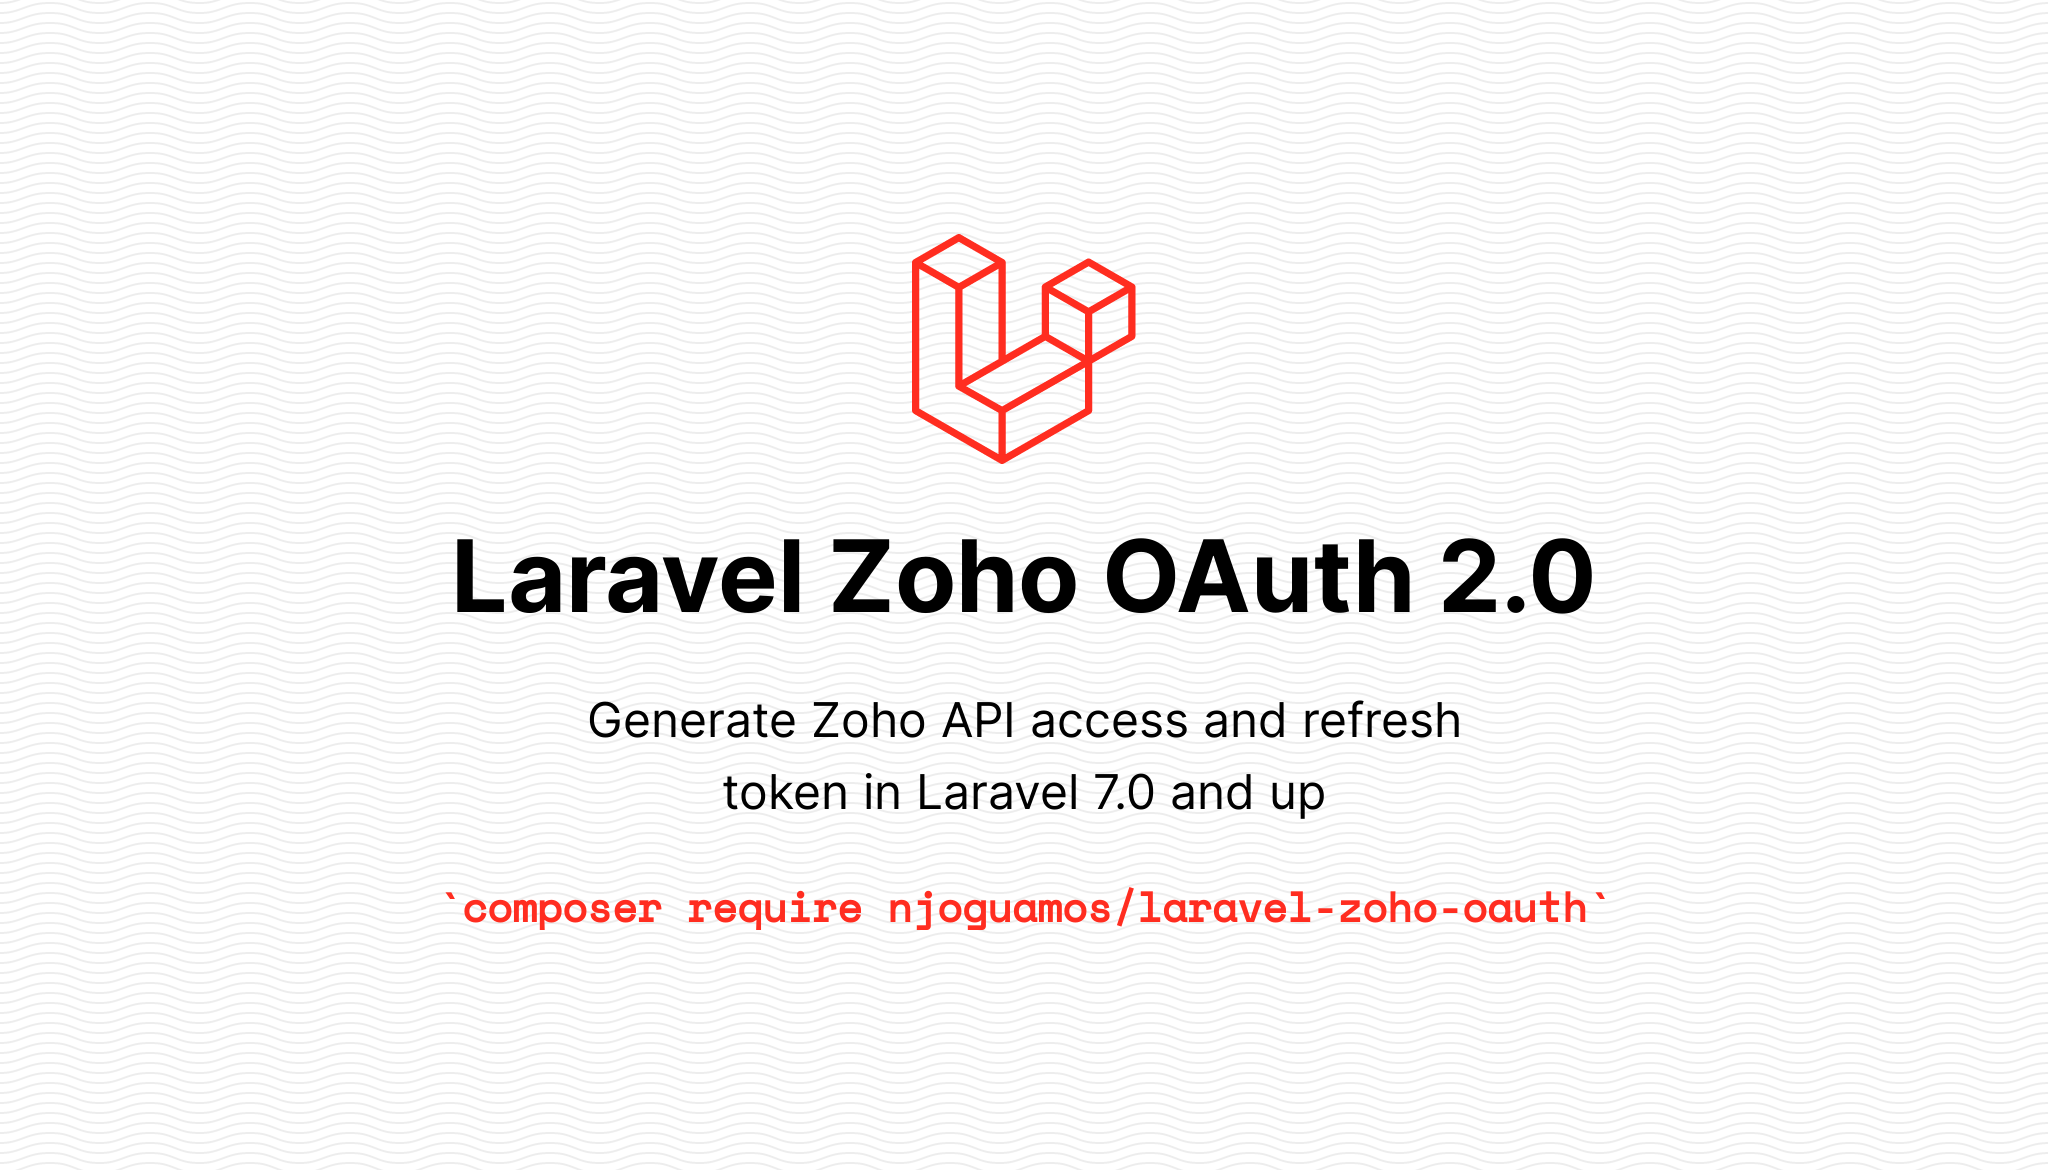
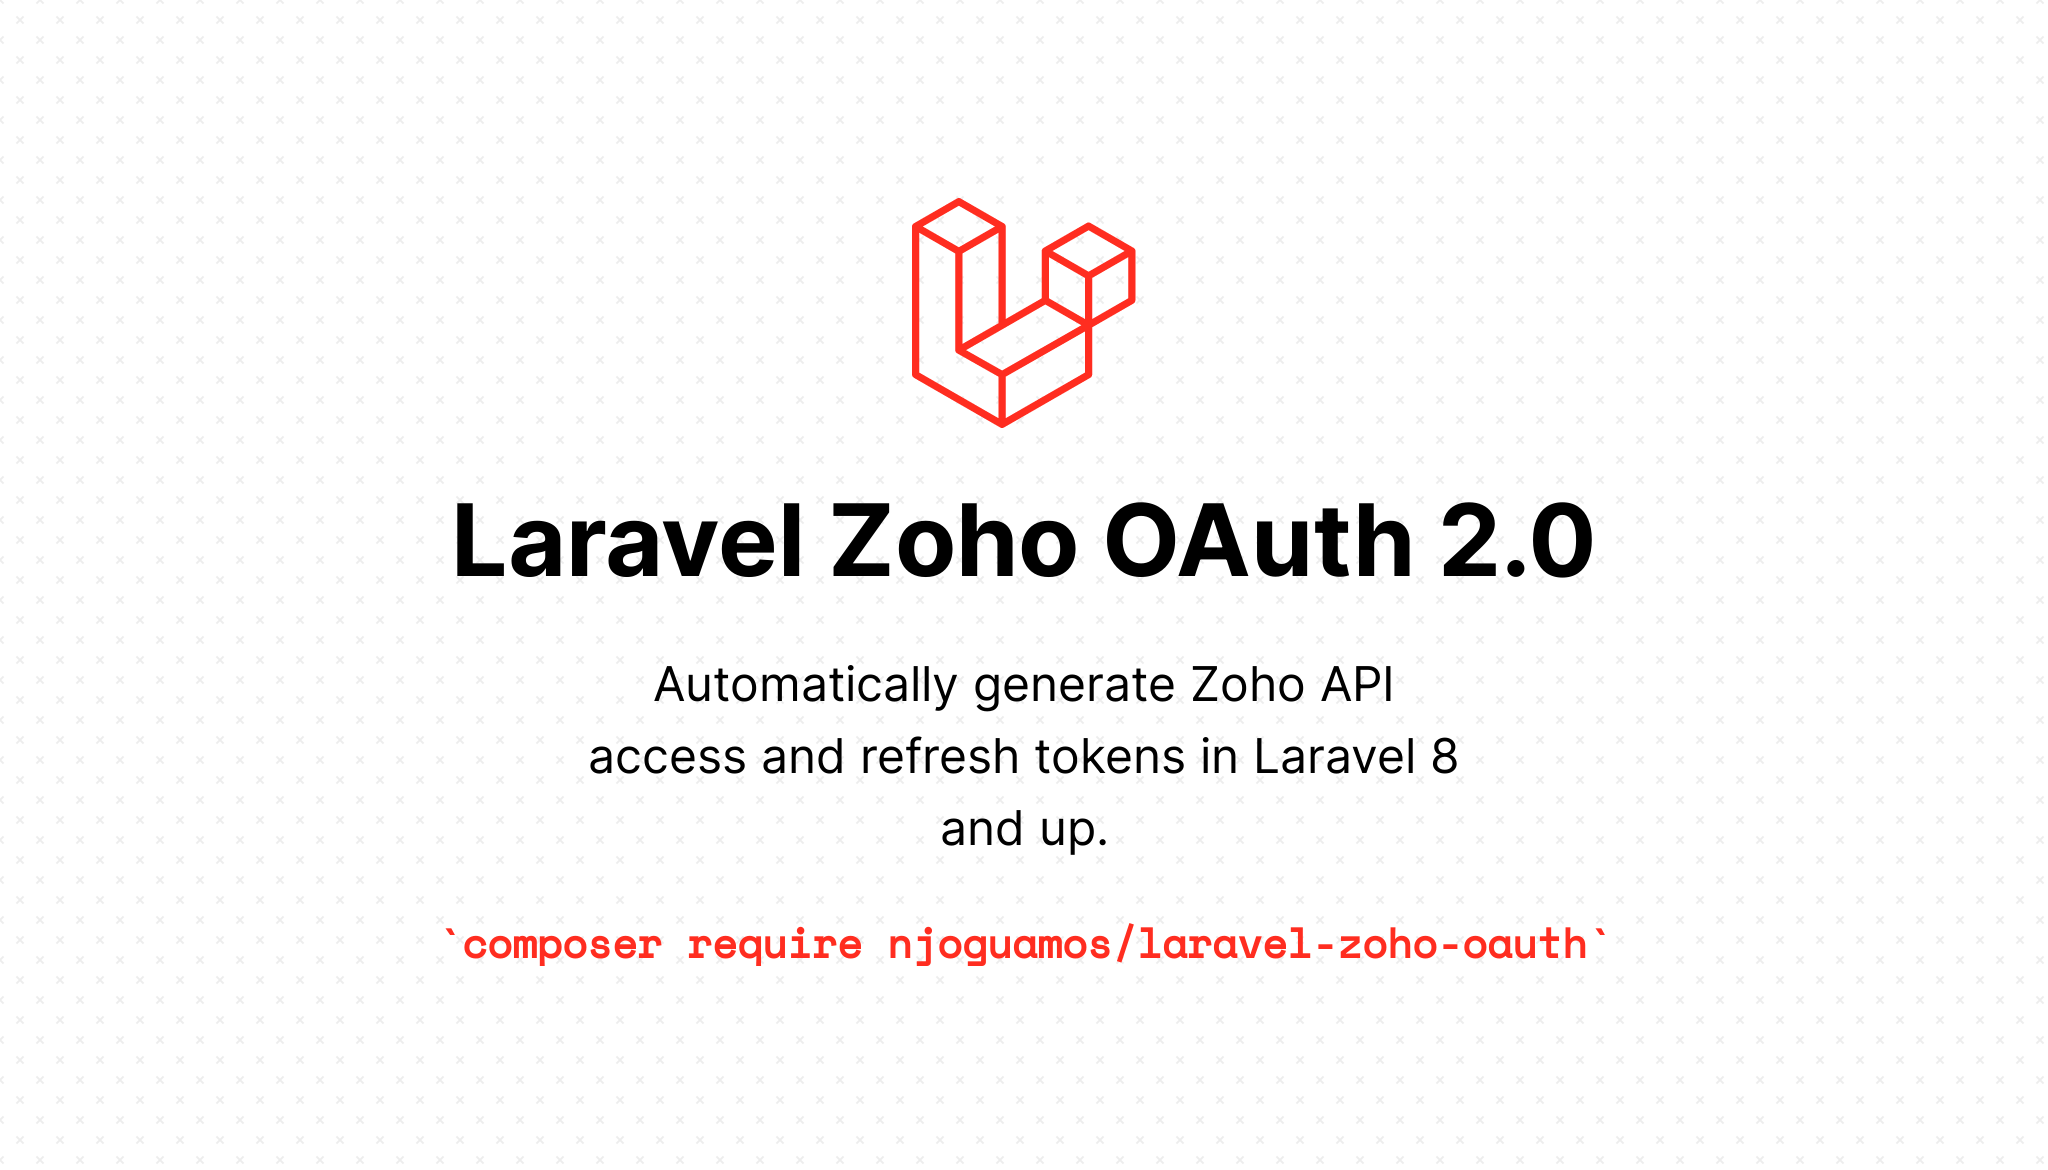
Add laravel 10 support (#22)
* Update composer.json

* Update dependencies

* Disable laravel 10 on PHP 8.0

* Update cover image

* Add downloads badge

diff --git a/README.md b/README.md
@@ -1,9 +1,10 @@
-![Image](https://github.com/njoguamos/laravel-zoho-oauth/blob/gh-pages/images/Cover.png)
+![Image](https://github.com/njoguamos/laravel-zoho-oauth/blob/main/docs/images/Cover.png)
 # Generate Zoho API Access and Refresh Token
 
 ![Tests](https://github.com/njoguamos/laravel-zoho-oauth/workflows/run-tests/badge.svg)
 [![License](https://img.shields.io/github/license/njoguamos/laravel-zoho-oauth.svg)](https://github.com/njoguamos/laravel-zoho-oauth)
 [![Latest Stable Version](https://img.shields.io/packagist/v/njoguamos/laravel-zoho-oauth.svg)](https://packagist.org/packages/njoguamos/laravel-zoho-oauth)
+![Downloads](https://img.shields.io/packagist/dt/njoguamos/laravel-zoho-oauth)
 ![Issues](https://img.shields.io/github/issues/njoguamos/laravel-zoho-oauth)
 
 Generate Zoho API access and refresh token in Laravel 8 and up applications.
